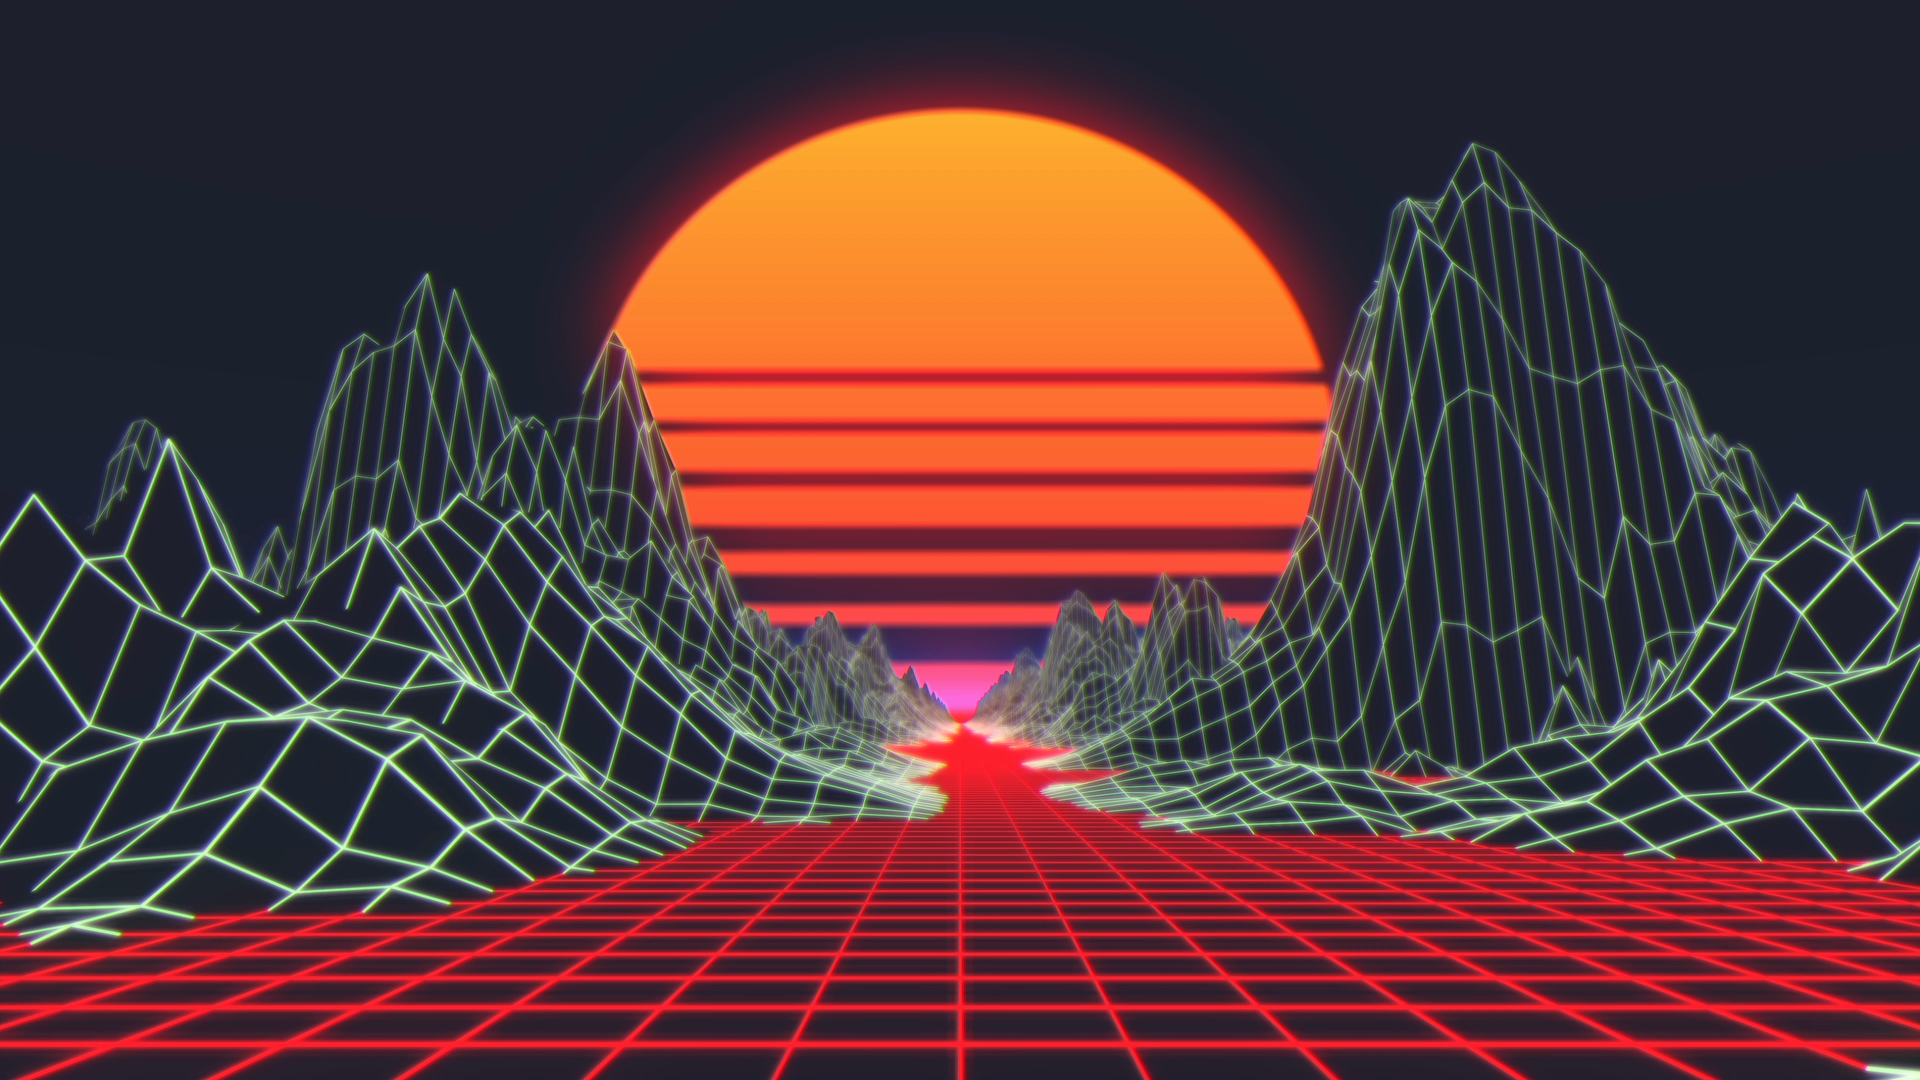
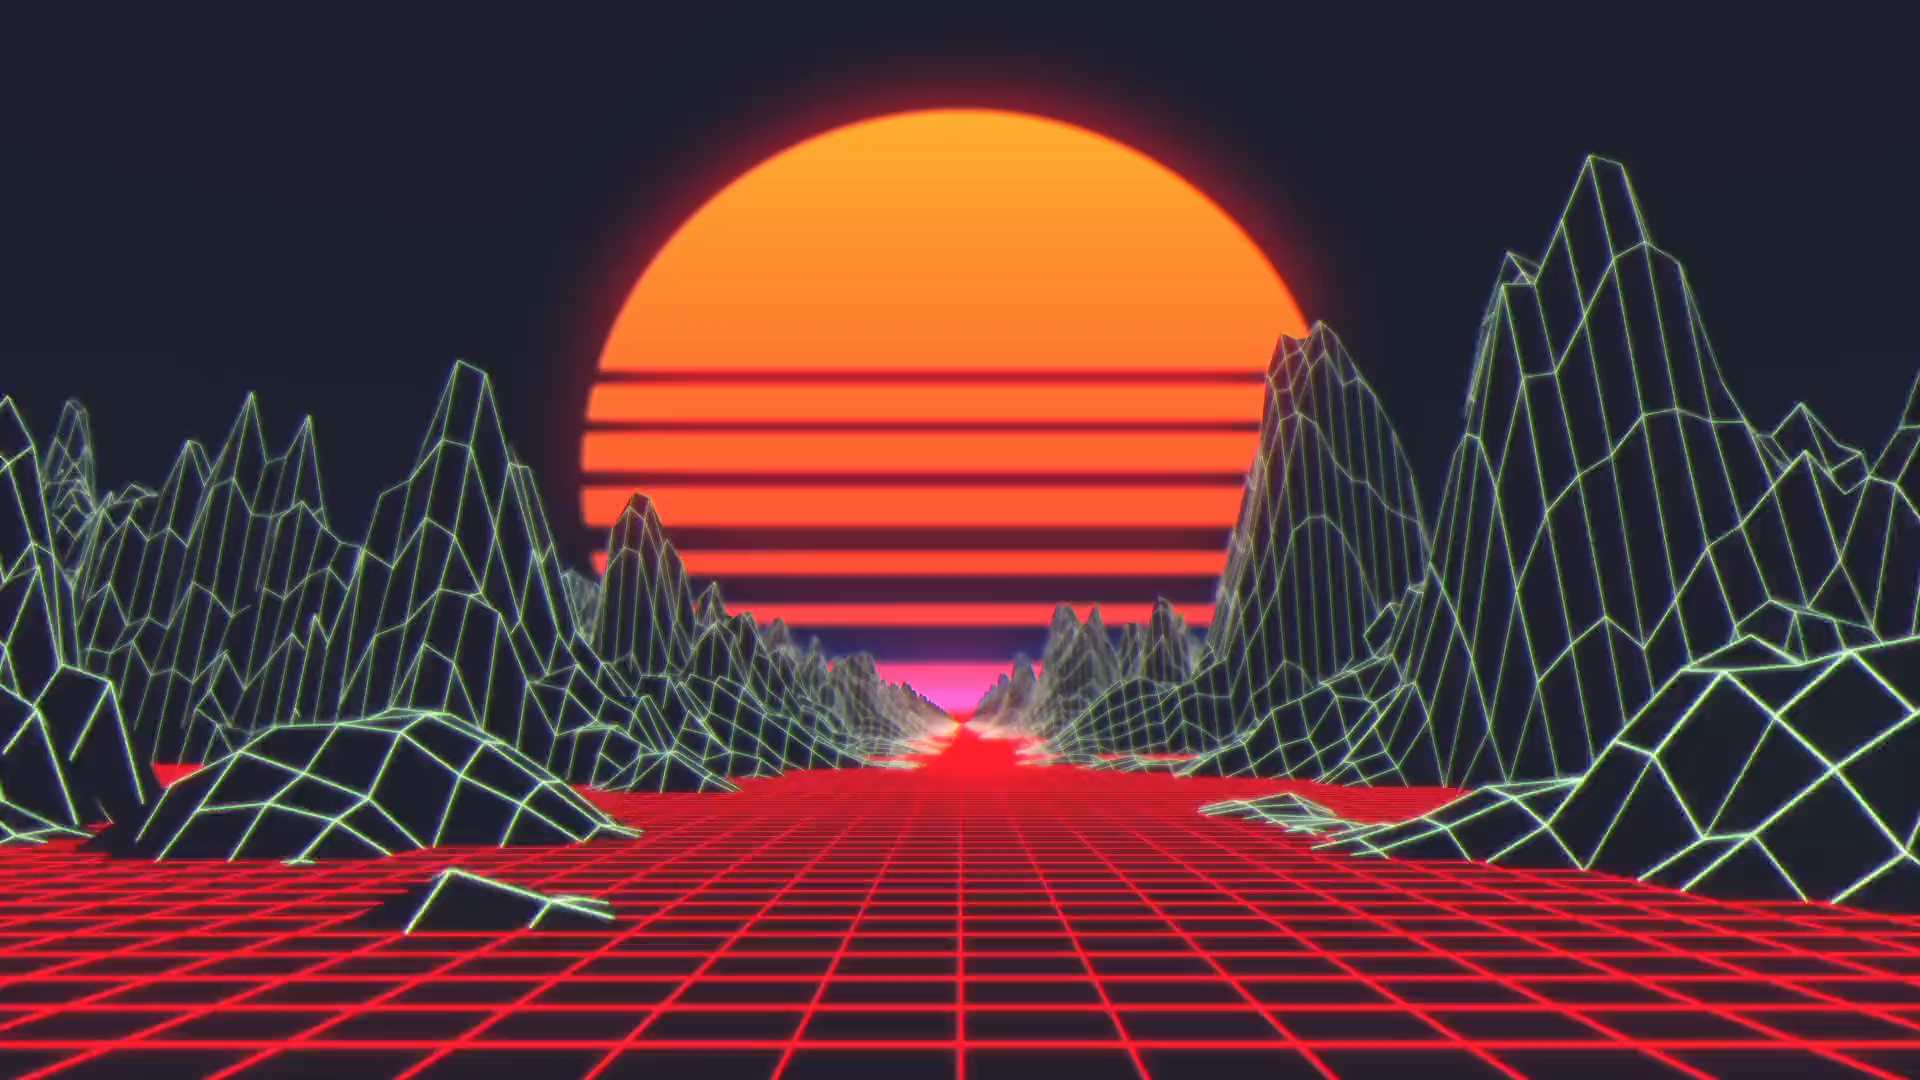
Unify background to flat navy, remove orange gradients, fix hero poster mismatch
- Replace ambient background on every page with one flat dark navy (#0A0D18),
  removing the orange radial glows from the homepage band, BuildToLast's next-
  steps card and Portfolio's contact section
- Fix hero.png: it was a different render to the video's actual first frame,
  causing a visible jump on load. Replaced it with an exact export of frame 0
- Hero video now seeks one frame forward before it swaps in for the poster, so
  playback continues rather than repeating the opening frame

Changed region(s): [[0.0, 0.1222, 1.0, 0.8861], [0.9688, 0.9778, 1.0, 1.0]]

diff --git a/Portfolio.html b/Portfolio.html
@@ -46,9 +46,7 @@
   @keyframes blink{50%{opacity:0}}
 
   /* ambient layers */
-  .sky{position:fixed;inset:0;z-index:-2;pointer-events:none;
-    background:radial-gradient(1100px 700px at 78% 2%, rgba(111,168,255,.12), transparent 60%),
-      radial-gradient(900px 600px at 50% 108%, rgba(255,107,61,.06), transparent 60%),var(--void)}
+  .sky{position:fixed;inset:0;z-index:-2;pointer-events:none;background:#0A0D18}
   .sky::before{content:"";position:absolute;inset:0;opacity:.55;
     background-image:radial-gradient(1.1px 1.1px at 20% 30%,rgba(255,255,255,.6),transparent),
       radial-gradient(1px 1px at 70% 20%,rgba(255,255,255,.5),transparent),
@@ -62,13 +60,7 @@
     mask-image:radial-gradient(130% 90% at 70% 20%,#000 28%,transparent 78%)}
 
   /* gradient + dot band under the hero, full page (Base 44 inspired) */
-  .grad-band{position:relative;isolation:isolate;
-    background:linear-gradient(180deg,
-      var(--void) 0%,
-      color-mix(in srgb, var(--celest) 16%, #05060c) 30%,
-      color-mix(in srgb, var(--celest) 13%, #070812) 54%,
-      color-mix(in srgb, var(--violet) 11%, #08060f) 76%,
-      color-mix(in srgb, var(--coral) 12%, #0b0710) 100%);}
+  .grad-band{position:relative;isolation:isolate;background:#0A0D18}
   .grad-band::before{content:"";position:absolute;inset:0;z-index:-1;pointer-events:none;
     background-image:radial-gradient(rgba(255,255,255,.11) .9px, transparent 1.1px);
     background-size:15px 15px;
@@ -244,7 +236,6 @@
 
   /* contact */
   .contact{position:relative}
-  .contact::before{content:"";position:absolute;left:50%;top:-46%;transform:translateX(-50%);width:820px;height:640px;background:radial-gradient(closest-side,rgba(255,107,61,.15),transparent 72%);pointer-events:none}
   .contact h2{font-family:var(--disp);font-weight:800;font-size:clamp(2.4rem,9vw,7rem);line-height:.9;letter-spacing:-.04em;position:relative;text-transform:uppercase}
   .contact-sub{font-size:1.1rem;max-width:50ch;margin:22px 0 34px;line-height:1.55;color:var(--muted)}
   .contact-cta{margin:6px 0 40px}
@@ -267,7 +258,7 @@
   .modal-box .btn{width:100%;justify-content:center;margin-top:6px;border:0;cursor:pointer}
   .modal-note{font-family:var(--mono);font-size:.68rem;color:var(--faint);margin-top:16px;line-height:1.5}
   /* footer */
-  footer.foot{border-top:1px solid var(--line);padding-block:26px}
+  footer.foot{position:relative;background:#0A0D18;border-top:1px solid var(--line);padding-block:26px}
   .foot-in{display:flex;flex-wrap:wrap;justify-content:space-between;align-items:center;gap:16px}
   .foot-l{font-family:var(--disp);font-weight:800;font-size:clamp(1.3rem,3vw,2rem);letter-spacing:-.02em;text-transform:uppercase}
   .foot-social{display:flex;gap:6px;font-family:var(--mono)}
@@ -524,7 +515,16 @@
     v.muted=true; v.defaultMuted=true; v.loop=true; v.autoplay=true; v.playsInline=true; v.preload='auto';
     v.setAttribute('muted',''); v.setAttribute('playsinline',''); v.poster='assets/hero.png';
     var s=document.createElement('source'); s.src='assets/hero.mp4'; s.type='video/mp4'; v.appendChild(s);
-    v.addEventListener('loadeddata',function(){ bg.classList.add('has-media'); bg.appendChild(v); var p=v.play&&v.play(); if(p&&p.catch)p.catch(function(){}); });
+    function reveal(){ bg.classList.add('has-media'); bg.appendChild(v); var p=v.play&&v.play(); if(p&&p.catch)p.catch(function(){}); }
+    // hero.png is an exact export of frame 0, so nudge the video one frame ahead before it
+    // takes over from the poster: no repeated frame, playback just continues forward.
+    v.addEventListener('loadeddata',function(){
+      var nudged=false;
+      function onSeeked(){ if(nudged) return; nudged=true; reveal(); }
+      v.addEventListener('seeked',onSeeked,{once:true});
+      try{ v.currentTime=0.04; }catch(e){}
+      setTimeout(function(){ if(!nudged){ nudged=true; reveal(); } },250); // fallback if 'seeked' never fires
+    },{once:true});
     v.addEventListener('error',function(){});
     s.addEventListener('error',function(){});
     v.load();

diff --git a/BuildToLast.html b/BuildToLast.html
@@ -41,9 +41,7 @@
   .mono{font-family:var(--mono);font-size:.74rem;letter-spacing:.04em;text-transform:uppercase}
   .glow{text-shadow:0 0 26px rgba(255,197,88,.35),0 0 60px rgba(111,168,255,.18)}
 
-  .sky{position:fixed;inset:0;z-index:-2;pointer-events:none;
-    background:radial-gradient(1100px 700px at 50% -8%, rgba(111,168,255,.10), transparent 60%),
-      radial-gradient(900px 600px at 50% 108%, rgba(255,107,61,.07), transparent 60%),var(--void);}
+  .sky{position:fixed;inset:0;z-index:-2;pointer-events:none;background:#0A0D18}
   .grid{position:fixed;inset:0;z-index:-1;pointer-events:none;opacity:.4;
     background-image:radial-gradient(rgba(150,160,210,.10) 1px, transparent 1px);background-size:34px 34px;
     -webkit-mask-image:radial-gradient(120% 80% at 50% 25%, #000 28%, transparent 76%);
@@ -131,7 +129,6 @@
   /* result + nextcta */
   .result p{font-size:1.14rem;color:var(--ink)}
   .nextcta{margin-top:clamp(40px,7vh,80px);border:1px solid var(--line);border-radius:20px;padding:clamp(28px,5vw,52px);text-align:center;background:var(--panel);position:relative;overflow:hidden}
-  .nextcta::before{content:"";position:absolute;left:50%;top:-40%;transform:translateX(-50%);width:600px;height:400px;background:radial-gradient(closest-side,rgba(255,107,61,.16),transparent);pointer-events:none}
   .nextcta h2{font-family:var(--disp);font-weight:800;font-size:clamp(1.8rem,5vw,3.2rem);letter-spacing:-.03em;margin-bottom:20px;position:relative}
   .btn{display:inline-flex;align-items:center;gap:10px;padding:15px 26px;border-radius:100px;font-weight:700;font-size:.98rem;border:1.5px solid var(--ink);background:var(--ink);color:var(--void);transition:transform .3s,box-shadow .3s,background .3s}
   .btn:hover{background:var(--gold);border-color:var(--gold);transform:translateY(-3px);box-shadow:0 0 30px rgba(255,197,88,.45)}

diff --git a/Capoeira.html b/Capoeira.html
@@ -41,9 +41,7 @@
   .mono{font-family:var(--mono);font-size:.74rem;letter-spacing:.04em;text-transform:uppercase}
   .glow{text-shadow:0 0 26px rgba(255,197,88,.35),0 0 60px rgba(111,168,255,.18)}
 
-  .sky{position:fixed;inset:0;z-index:-2;pointer-events:none;
-    background:radial-gradient(1100px 700px at 50% -8%, rgba(111,168,255,.10), transparent 60%),
-      radial-gradient(900px 600px at 50% 108%, rgba(255,107,61,.07), transparent 60%),var(--void);}
+  .sky{position:fixed;inset:0;z-index:-2;pointer-events:none;background:#0A0D18}
   .grid{position:fixed;inset:0;z-index:-1;pointer-events:none;opacity:.4;
     background-image:radial-gradient(rgba(150,160,210,.10) 1px, transparent 1px);background-size:34px 34px;
     -webkit-mask-image:radial-gradient(120% 80% at 50% 25%, #000 28%, transparent 76%);

diff --git a/Explorations.html b/Explorations.html
@@ -41,9 +41,7 @@
   .mono{font-family:var(--mono);font-size:.74rem;letter-spacing:.04em;text-transform:uppercase}
   .glow{text-shadow:0 0 26px rgba(255,197,88,.35),0 0 60px rgba(111,168,255,.18)}
 
-  .sky{position:fixed;inset:0;z-index:-2;pointer-events:none;
-    background:radial-gradient(1100px 700px at 50% -8%, rgba(111,168,255,.10), transparent 60%),
-      radial-gradient(900px 600px at 50% 108%, rgba(255,107,61,.07), transparent 60%),var(--void);}
+  .sky{position:fixed;inset:0;z-index:-2;pointer-events:none;background:#0A0D18}
   .grid-bg{position:fixed;inset:0;z-index:-1;pointer-events:none;opacity:.4;
     background-image:radial-gradient(rgba(150,160,210,.10) 1px, transparent 1px);background-size:34px 34px;
     -webkit-mask-image:radial-gradient(120% 80% at 50% 25%, #000 28%, transparent 76%);

diff --git a/Aphos.html b/Aphos.html
@@ -44,7 +44,7 @@
   .mono{font-family:var(--mono);font-size:.74rem;letter-spacing:.04em;text-transform:uppercase}
 
   /* ambient */
-  .sky{position:fixed;inset:0;z-index:-2;pointer-events:none;background:radial-gradient(1100px 700px at 50% -8%, rgba(111,168,255,.10), transparent 60%),radial-gradient(900px 600px at 50% 108%, rgba(255,107,61,.07), transparent 60%),var(--paper)}
+  .sky{position:fixed;inset:0;z-index:-2;pointer-events:none;background:#0A0D18}
   .grid{position:fixed;inset:0;z-index:-1;pointer-events:none;opacity:.4;background-image:radial-gradient(rgba(150,160,210,.10) 1px, transparent 1px);background-size:34px 34px;-webkit-mask-image:radial-gradient(120% 80% at 50% 25%, #000 28%, transparent 76%);mask-image:radial-gradient(120% 80% at 50% 25%, #000 28%, transparent 76%)}
 
   /* NAV */

diff --git a/Bespoke.html b/Bespoke.html
@@ -44,7 +44,7 @@
   .mono{font-family:var(--mono);font-size:.74rem;letter-spacing:.04em;text-transform:uppercase}
 
   /* ambient */
-  .sky{position:fixed;inset:0;z-index:-2;pointer-events:none;background:radial-gradient(1100px 700px at 50% -8%, rgba(232,80,61,.12), transparent 60%),radial-gradient(900px 600px at 50% 108%, rgba(255,138,61,.07), transparent 60%),var(--paper)}
+  .sky{position:fixed;inset:0;z-index:-2;pointer-events:none;background:#0A0D18}
   .grid{position:fixed;inset:0;z-index:-1;pointer-events:none;opacity:.4;background-image:radial-gradient(rgba(150,160,210,.10) 1px, transparent 1px);background-size:34px 34px;-webkit-mask-image:radial-gradient(120% 80% at 50% 25%, #000 28%, transparent 76%);mask-image:radial-gradient(120% 80% at 50% 25%, #000 28%, transparent 76%)}
 
   /* ---- NAV ---- */

diff --git a/CS500.html b/CS500.html
@@ -42,7 +42,7 @@
   .mono{font-family:var(--mono);font-size:.74rem;letter-spacing:.04em;text-transform:uppercase}
 
   /* ambient */
-  .sky{position:fixed;inset:0;z-index:-2;pointer-events:none;background:radial-gradient(1100px 700px at 50% -8%, rgba(111,168,255,.10), transparent 60%),radial-gradient(900px 600px at 50% 108%, rgba(255,107,61,.07), transparent 60%),var(--paper)}
+  .sky{position:fixed;inset:0;z-index:-2;pointer-events:none;background:#0A0D18}
   .grid{position:fixed;inset:0;z-index:-1;pointer-events:none;opacity:.4;background-image:radial-gradient(rgba(150,160,210,.10) 1px, transparent 1px);background-size:34px 34px;-webkit-mask-image:radial-gradient(120% 80% at 50% 25%, #000 28%, transparent 76%);mask-image:radial-gradient(120% 80% at 50% 25%, #000 28%, transparent 76%)}
 
   /* NAV */

diff --git a/Voucht.html b/Voucht.html
@@ -45,7 +45,7 @@
   .mono{font-family:var(--mono);font-size:.74rem;letter-spacing:.04em;text-transform:uppercase}
 
   /* ambient */
-  .sky{position:fixed;inset:0;z-index:-2;pointer-events:none;background:radial-gradient(1100px 700px at 50% -8%, rgba(111,168,255,.10), transparent 60%),radial-gradient(900px 600px at 50% 108%, rgba(255,107,61,.07), transparent 60%),var(--paper)}
+  .sky{position:fixed;inset:0;z-index:-2;pointer-events:none;background:#0A0D18}
   .grid{position:fixed;inset:0;z-index:-1;pointer-events:none;opacity:.4;background-image:radial-gradient(rgba(150,160,210,.10) 1px, transparent 1px);background-size:34px 34px;-webkit-mask-image:radial-gradient(120% 80% at 50% 25%, #000 28%, transparent 76%);mask-image:radial-gradient(120% 80% at 50% 25%, #000 28%, transparent 76%)}
 
   /* ---- NAV ---- */